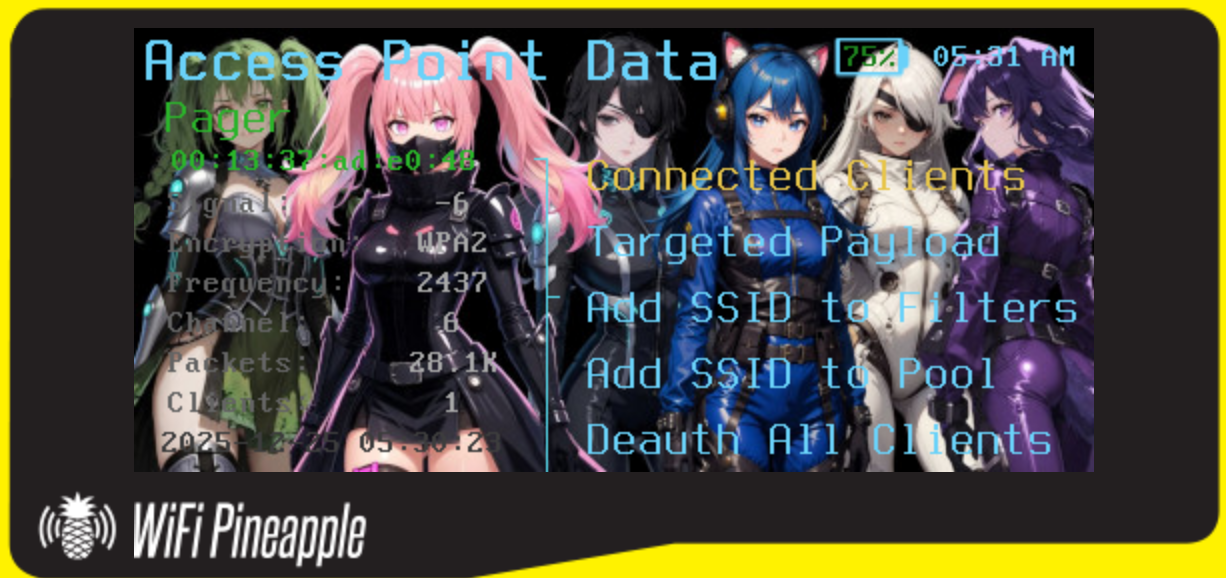
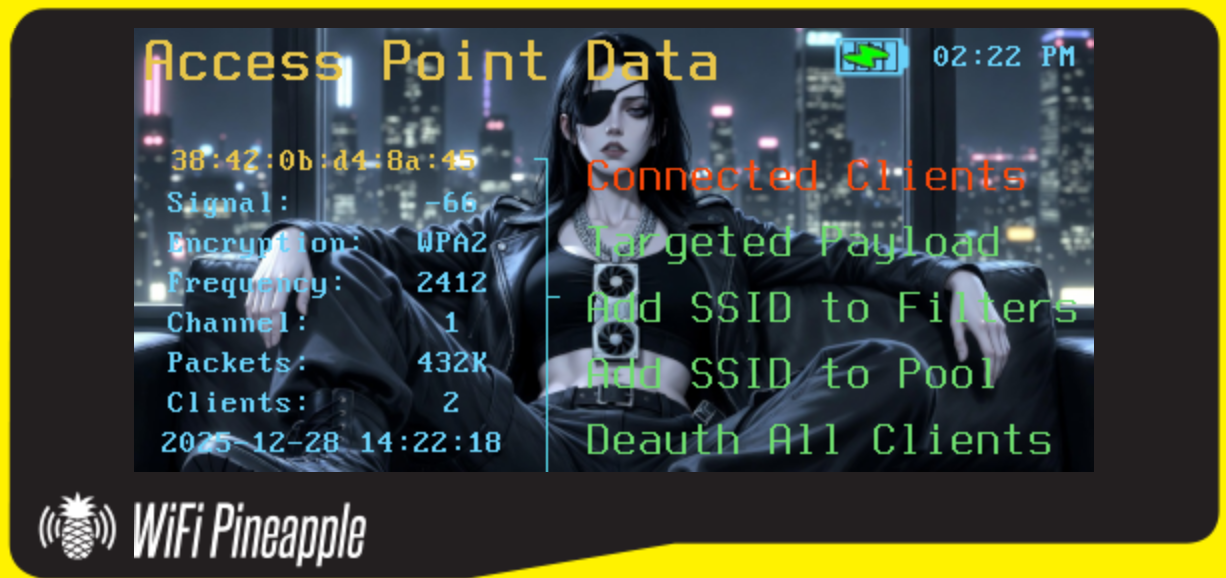
Changed font colors, updated README, added new recon payload background

diff --git a/uwu_underground/UWU_THEME_README.md b/uwu_underground/UWU_THEME_README.md
@@ -2,12 +2,13 @@
 
 Custom theme for WiFi Pineapple Pager ([Hak5 Repo](https://github.com/hak5/wifipineapplepager-themes))    
     
-*There's still a lot to do, tackling the font colors in each dashboard is next:    
+*There's still a lot to do, tackling the font colors in each dashboard is next:   
+      
 -Give proper credit for art (@_winter_wonders and @uwu_underground)    
 -Convert song melodies to ringtones?    
--Fix font alignment and colors    
 -Change icons and other images    
 -Change Recon and pop backgrounds    
+-Change Payload Dashboard status bar battery icon
 
 *Some AI Slop has been used to help generate this README
 
@@ -47,15 +48,13 @@ uwu_underground/
 - `assets/alerts_dashboard/alerts_bg.png` - Yuma (Art provided by @_winter_wonders)    
 <img src="readme_images/alerts_dashboard.png" width="480" height="222" title="Art provided by @_winter_wonders"><br>
 <br>
-- `assets/dashboard/main_dashboard.png` - 5 UwU members    
-<img src="readme_images/dashboard.png" width="480" height="222">    
+- `assets/dashboard/main_dashboard.png` - UwU group     
+<img src="readme_images/main_dashboard.png" width="480" height="222">    
 <br>
 - `assets/payloads_dashboard/payloads_bg.png` - Yuma (Art provided by @_winter_wonders)    
 <img src="readme_images/payload_dashboard.png" width="480" height="222" title="Art provided by @_winter_wonders">    
 <br>
-- `assets/payloads_dashboard/recon_payloads_bg.png` - Yin  
-<br>  
-- `assets/blank_recon_bg.png` - Full UwU Team    
+- `assets/blank_recon_bg.png` - Yin with GPU (This is for both the AP and Client recon payload dashboards)    
 <img src="readme_images/blank_recon_bg.png" width="480" height="222">  
 <br>
 - `assets/launch_payload_dialog/launch_payload_bg.png` - Yuki 
@@ -71,17 +70,24 @@ uwu_underground/
 ```
 Menu Items: blue
 Sub-menu Items: light_yellow
-Selected Item: orange
+Menu Selected Item: orange
 ```
-- `components/dashboards/dashboard_payloads.json` - Updated font colors to the following:    
+- `components/dashboards/dashboard_payloads.json` - Updated font colors and status bar to the following:    
 ```
-Menu Items: dark_red
-Menu Folder Icon: orange
-Selected Item: yellow
+Menu Items: black
+Menu Folder Icon: black
+Selected Item: dark_red
+Status Bar: payloads (status_bar_payloads.json)
 ```
 - `components/dashboards/dashboard_pineap.json` - Updated font colors to the following:    
 ```
 Menu Items: blue
 Sub-menu Items: light_green
 Selected Item: yellow
+```
+
+- `theme.json` - Added the following components:    
+```
+# New status bar for payload dashboard
+"payloads": "components/status_bars/status_bar_payloads.json"
 ```
